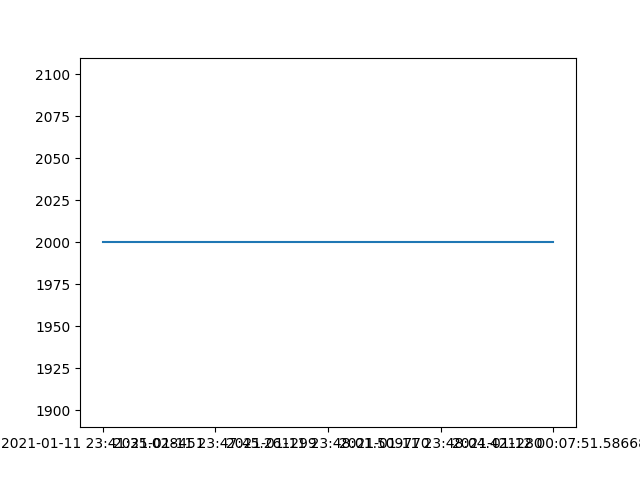
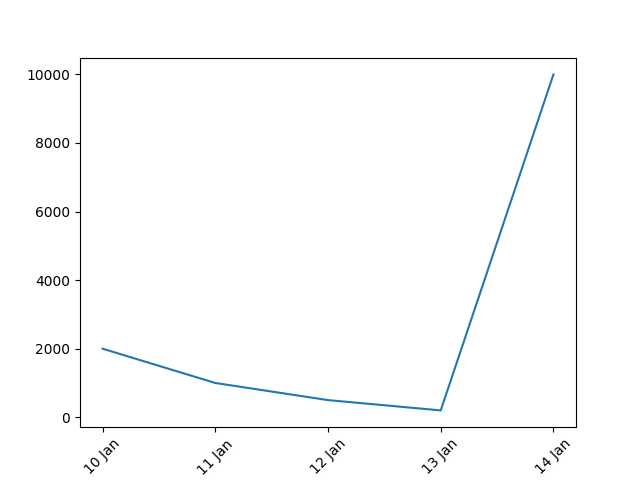
Add time to graph.py

diff --git a/graph.py b/graph.py
@@ -1,16 +1,20 @@
 import numpy as np
 import pandas as pd
 import matplotlib.pyplot as plt
+from datetime import datetime
 
 
 def plotGraph(id):
-    data = pd.read_csv(f"./data/{id}.csv")
+    data = pd.read_csv(f"./data/{id}.csv", header=0, index_col=0, parse_dates=True)
+    date_format = "%Y-%m-%d %H:%M:%S.%f"
 
-    x = data["time_stamp"]
-    y = data["price"]
+    time_stamp = data["time_stamp"]
+    dates = [datetime.strptime(i, date_format) for i in time_stamp]
+    days = [i.day for i in dates]
+    prices = data["price"]
 
-    plt.plot(x, y)
+    x_labels = [d.strftime("%d %b") for d in dates]
+
+    plt.plot(days, prices)
+    plt.xticks(days, x_labels, rotation=45)
     plt.savefig(f"./graphs/{id}.png")
-
-
-plotGraph(1)

diff --git a/data_handlers.py b/data_handlers.py
@@ -18,12 +18,6 @@ def appendData(product):
 
     new_row = pd.Series([product["price"], product["time_stamp"]], index=data.columns)
 
-    # print(new_row)
-
     data = data.append(new_row, ignore_index=True)
-    # print(data)
 
     data.to_csv(file_path)
-
-
-appendData(product)

diff --git a/config.py b/config.py
@@ -2,5 +2,6 @@ config = [
     {
         "id": 1,
         "url": "https://www.amazon.in/HONOR-Band-5-Meteorite-Black/dp/B07WTHFBQS/ref=sr_1_1?crid=2X4YEFGJU195L&dchild=1&keywords=honor+band+5&qid=1610218382&sprefix=hono%2Caps%2C390&sr=8-1",
+        "target_price": 2000,
     }
 ]
